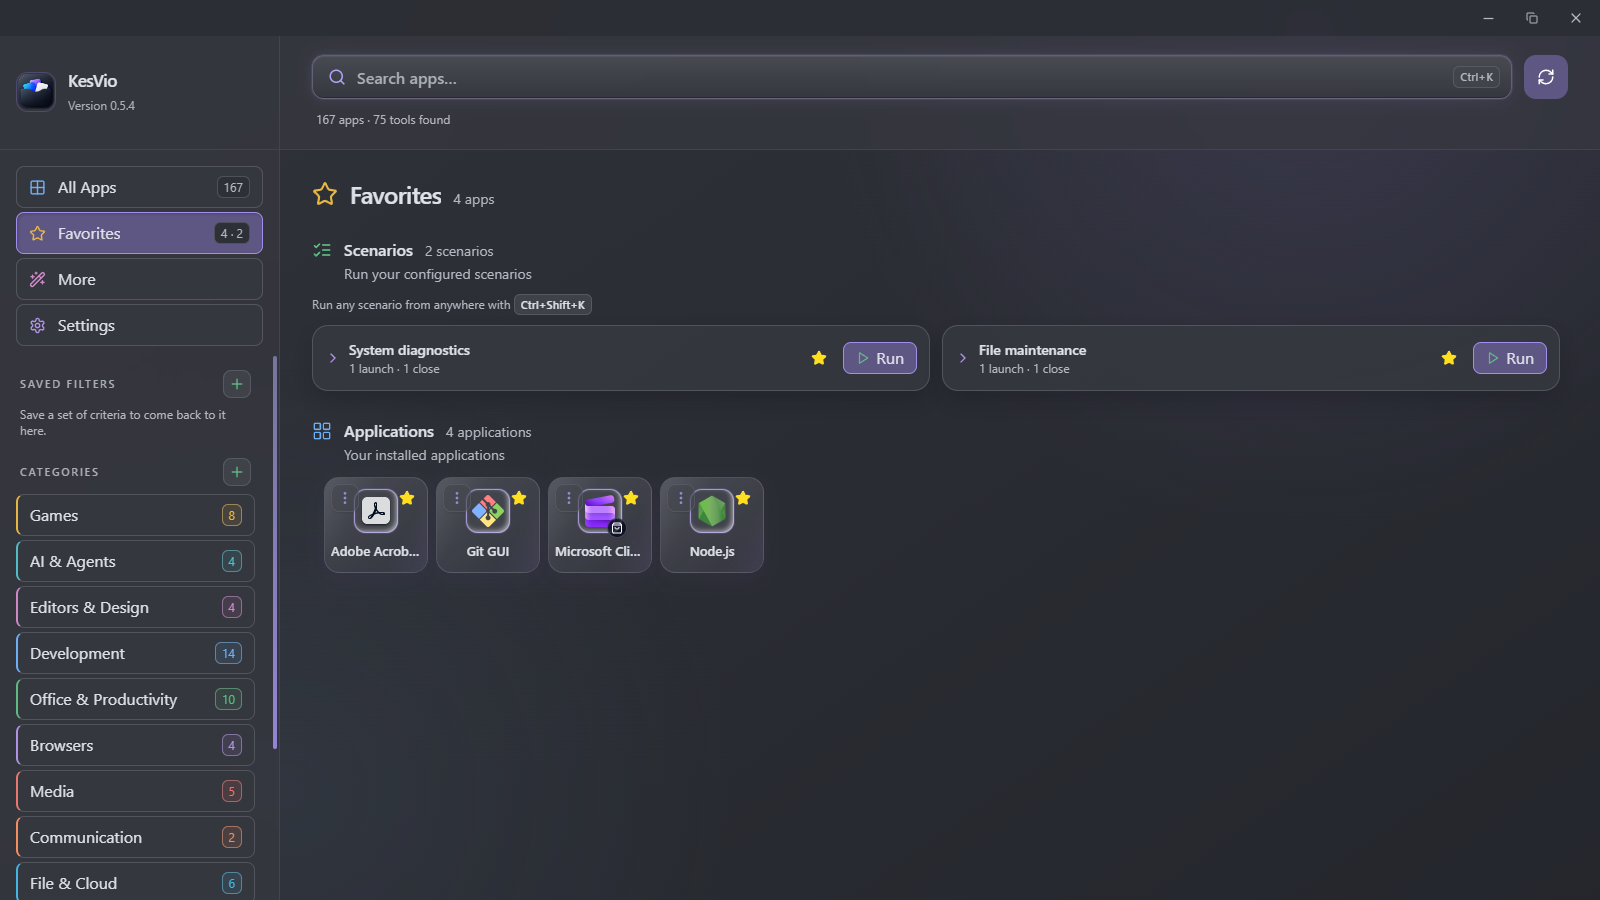
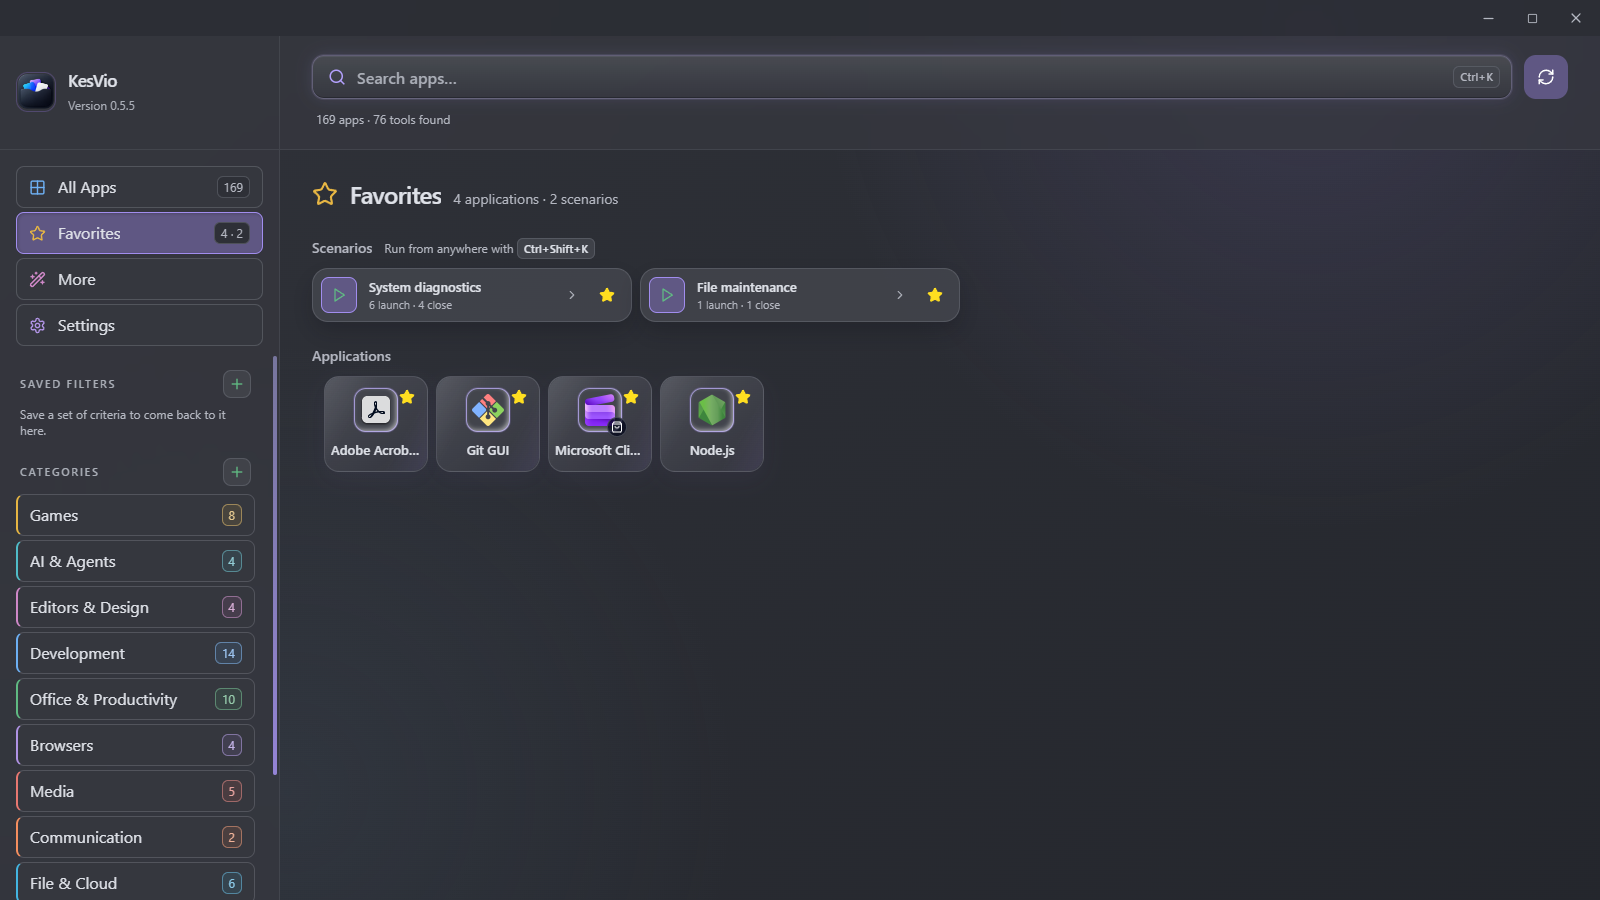
chore(release): prepare v0.5.5 with remembered views, a compact Favorites view and one-click actions on the utility pages

diff --git a/.github/release-notes.md b/.github/release-notes.md
@@ -2,42 +2,48 @@ KesVio is a local-first Windows app catalog for finding, organizing, and launchi
 
 ## Highlights
 
-This release turns updating into one click from the sidebar, joins the navigation and the catalog into one window frame, stops the header from jumping when a saved filter is applied, and makes the interface easier to read and to use on a touch screen.
+This release reopens KesVio where you left it, makes Favorites compact, gives Hidden, Auxiliary tools and Installers & Docs a one-click main action, tells you which installers are already outdated, and tightens accessibility, data safety and the release itself.
 
 ## Added
 
-- **The version sits under the KesVio name.** The sidebar and the navigation drawer show the running version below the logo.
-- **Updates install from one pill.** When a new version is available, the version line becomes **Update X available**. One click downloads it, verifies the updater signature, installs it and restarts KesVio. While it runs, the pill turns into a progress bar with the download percentage and then the stage (**Verifying**, **Installing**, **Restarting**); you can keep using the catalog meanwhile. If the update fails, the pill offers **Retry update X** and a notice explains what went wrong, with **Open release** to download the installer by hand.
+- **KesVio reopens where you left it.** The window opens on the view that was open when you closed it — Favorites, Scenarios, Settings or any other — instead of always on All Apps.
+- **One-click actions on the utility pages.** Hidden and Auxiliary tools show **Restore** on every row, and Installers & Docs shows **Folder**; the ⋮ menu no longer repeats them. **Restore all** on Hidden asks for confirmation, lists the apps it will bring back, and can be undone in one step with **Ctrl+Z**.
+- **Outdated installers stand out.** An installer older than the version of the same program you already have installed says **Installed X is newer**, so it is safe to delete.
+- **Why a tool is auxiliary.** Every row in Auxiliary tools names its reason (for example *Runtime directory* or *Maintenance executable*), and chips — a single list on a narrow window — narrow the page to one reason.
+- **Versions fold together.** Several versions or copies of one program (same name and publisher) show as one row with the newest in front and a **+N** toggle that opens the others smoothly.
 
 ## Changed
 
-- **No more update banner or update dialog.** The strip above the catalog and the confirmation window with release highlights are gone; the full release notes stay on the GitHub release page. **Settings → Check updates** and the automatic-check switch remain, and a version found there appears in the sidebar pill.
-- **Settings looks like the other pages.** Its header now has a gear icon, the title and a short description, like More; the logo and version moved to the sidebar.
-- **One window frame.** On wide windows the navigation sidebar no longer floats as a rounded island: it sits flush against the window edge in the same translucent material as the header, and the line under the logo meets the line under the search bar across the whole window.
-- **The header keeps its height.** An applied saved filter now appears right after the `apps · tools found` count instead of adding a row, so the catalog no longer shifts down, and the chip is next to what it filters instead of in the far corner.
-- **The platform badge sits on the icon.** The Store, Steam or portable mark moved to the corner of the app icon, so it never covers the app name at any card density.
-- **Easier to read.** Secondary text, counts and descriptions have more contrast against the dark surfaces.
-- **Easier to tap.** On a touch screen buttons and links get a 44 × 44 px target; small controls laid over cards (menu, favourite, remove badges, search clear) keep their size so they never cover the app icon.
-- **Thin scrollbars everywhere.** Every scrolling area uses the same 8 px scrollbar without arrow buttons.
-- **Unrecognised applications** in Settings stretches its action button across the card on a narrow window like every other card action.
+- **Favorites is compact.** The title counts applications and scenarios in one line, starred scenarios are small cards two to a row even on the smallest window, and expanding one shows its apps as compact icons.
+- **Installers show their folder.** Installers & Docs names the folder an installer sits in instead of printing the whole path; the full path is in the tooltip.
+- **Wider lists on large screens.** Hidden, Auxiliary tools and Installers & Docs line their title up with the list and fill the window with as many columns as fit.
+- **Keyboard focus stays in place.** Hiding, restoring or moving an app back keeps focus on the neighbouring row instead of dropping it to the top of the window.
+- **Shortcuts wait for open dialogs.** While a dialog is open, **Ctrl+F**, **/** and **Ctrl+Z** do nothing, and **Ctrl+K** / **Ctrl+Shift+K** only close their own launcher, so Undo never reverts a change hidden behind a confirmation.
+- **Quieter scan log.** A routine scan no longer writes one line per file of the installer cache; the diagnostics log keeps the first steps of each stage and at most one line a second after that.
 
 ## Fixed
 
-- **Recently added stays recent.** Every start used to move dozens of long-installed programs into **Recently added**; an application is now stamped once, the first time the catalog carries it.
-- **A restored window respects the minimum size.** The saved window position could reopen the window a few pixels narrower than the 446 px the interface is designed for; it is now held to the configured minimum.
-- **A long saved-filter name no longer widens the sidebar,** and on a 446 px window the scan button stays inside the header.
+- **A removable drive no longer refills Recently added.** Plugging a USB stick back in used to list every program on it as new; programs on a drive that is away keep their first-seen date. Your preferences upgrade automatically.
+- **App icons in the scenario picker.** Adding apps to a scenario right after KesVio opened on Scenarios showed placeholder icons; they now load.
+- **Safer catalog cache writes.** A damaged cache file never replaces the good backup copy it was recovered from.
+- **Uninstalling removes the logs.** The uninstaller always deletes KesVio's diagnostics logs, including the per-user fallback folder.
+
+## Security
+
+- The window can call only the individual system permissions it uses, scan settings and close requests have upper bounds, and every release now publishes a CycloneDX software bill of materials (`KesVio_0.5.5_sbom.cdx.json`) beside the installer.
 
 ## Install
 
-1. Download `KesVio_0.5.4_x64-setup.exe`.
+1. Download `KesVio_0.5.5_x64-setup.exe`.
 2. Run it. The installer needs no administrator rights and installs for the current user into `%LOCALAPPDATA%\KesVio`; you can pick another folder on the install page. Because it is not Authenticode-signed, SmartScreen may show **Windows protected your PC**; choose **More info → Run anyway**.
 3. If Microsoft Edge WebView2 is missing, the embedded bootstrapper downloads it from Microsoft and requires internet access.
 
-Updating from 0.5.3 still happens through that version's update notice or **Settings → Check updates**, and keeps every preference and the catalog cache; nothing is migrated. From 0.5.4 on, later versions install from the sidebar pill.
+Updating from 0.5.4 takes one click on **Update 0.5.5 available** under the KesVio name, or **Settings → Check updates**. Every preference and the catalog cache are kept; the preferences document upgrades in place.
 
 ## Verification
 
-The installer is not Authenticode-signed, so two things are published beside it instead:
+The installer is not Authenticode-signed, so these are published beside it instead:
 
-- `SHA256SUMS.txt` — compare it with `Get-FileHash KesVio_0.5.4_x64-setup.exe -Algorithm SHA256`.
-- A build provenance attestation tying these exact bytes to the workflow run and commit that produced them — `gh attestation verify KesVio_0.5.4_x64-setup.exe --repo keskiyo/KesVio`.
+- `SHA256SUMS.txt` — compare it with `Get-FileHash KesVio_0.5.5_x64-setup.exe -Algorithm SHA256`.
+- A build provenance attestation tying these exact bytes to the workflow run and commit that produced them — `gh attestation verify KesVio_0.5.5_x64-setup.exe --repo keskiyo/KesVio`.
+- `KesVio_0.5.5_sbom.cdx.json` — the inventory of every third-party component in the installer.

diff --git a/THIRD_PARTY_NOTICES.md b/THIRD_PARTY_NOTICES.md
@@ -2,7 +2,7 @@
 
 This file is the inventory of what KesVio distributes. The license texts themselves, including MPL 2.0 source availability, are in [THIRD_PARTY_LICENSES.txt](THIRD_PARTY_LICENSES.txt), which is generated by `scripts/generate-third-party-licenses.ps1` and installed alongside the application.
 
-KesVio v0.5.4 distribution notices. Package names and versions were verified on 2026-09-23 (unchanged for 0.5.4: no runtime dependency was added, removed or bumped) against `npm ls --omit=dev --all --json` and the locked Windows x64 Cargo normal/build dependency graph. Each listed package must retain its upstream license and any required notice.
+KesVio v0.5.5 distribution notices. Package names and versions were verified on 2026-10-02 (unchanged for 0.5.5: no runtime dependency was added, removed or bumped; the `undici` and `brace-expansion` pins are development-only) against `npm ls --omit=dev --all --json` and the locked Windows x64 Cargo normal/build dependency graph. Each listed package must retain its upstream license and any required notice.
 
 ## npm runtime dependencies
 

diff --git a/.github/images/README.md b/.github/images/README.md
@@ -6,7 +6,10 @@ include them in the application bundle.
 ## Current capture
 
 Captured on 2026-09-23 from the running KesVio 0.5.4 application, built from the
-release change set that introduces these images on top of revision `63dde23`. The window
+release change set that introduces these images on top of revision `63dde23`;
+`settings.png` was recaptured on 0.5.4 for its gear-and-title header and
+`favorites.png` on 2026-10-02 from 0.5.5 for the compact Favorites view, so the
+version under the logo differs between them. The window
 was rendered at a 1600 × 900 viewport through the WebView2 debugging protocol, so
 the images are native size rather than downscaled. The catalog counts, categories
 and application names come from a real Windows installation rather than fixtures.
